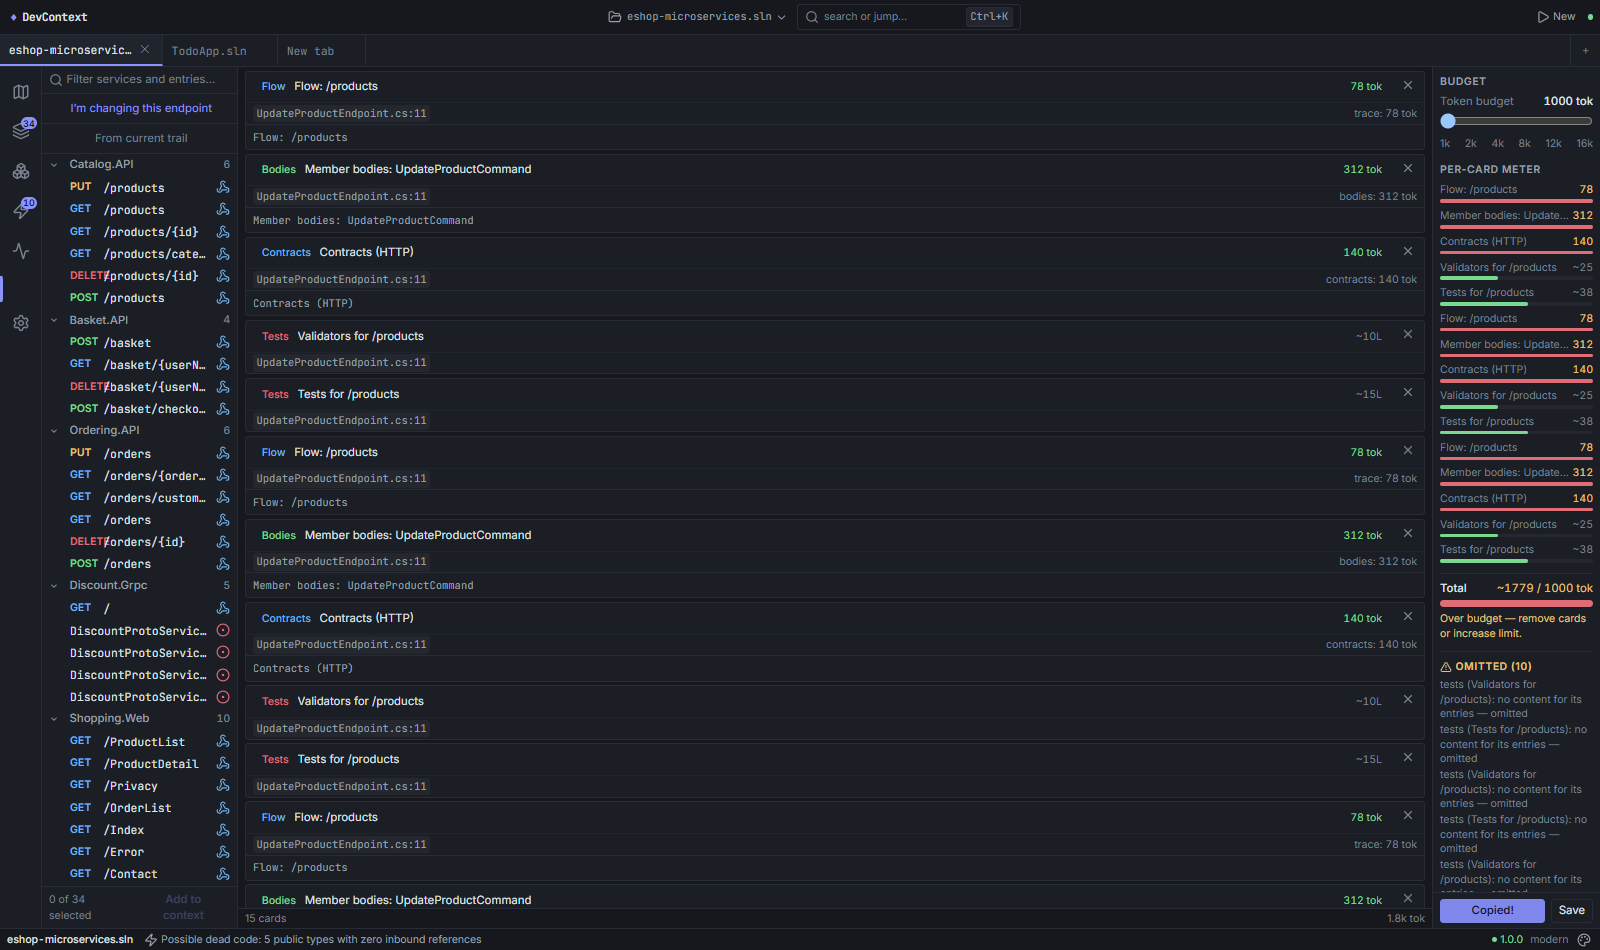
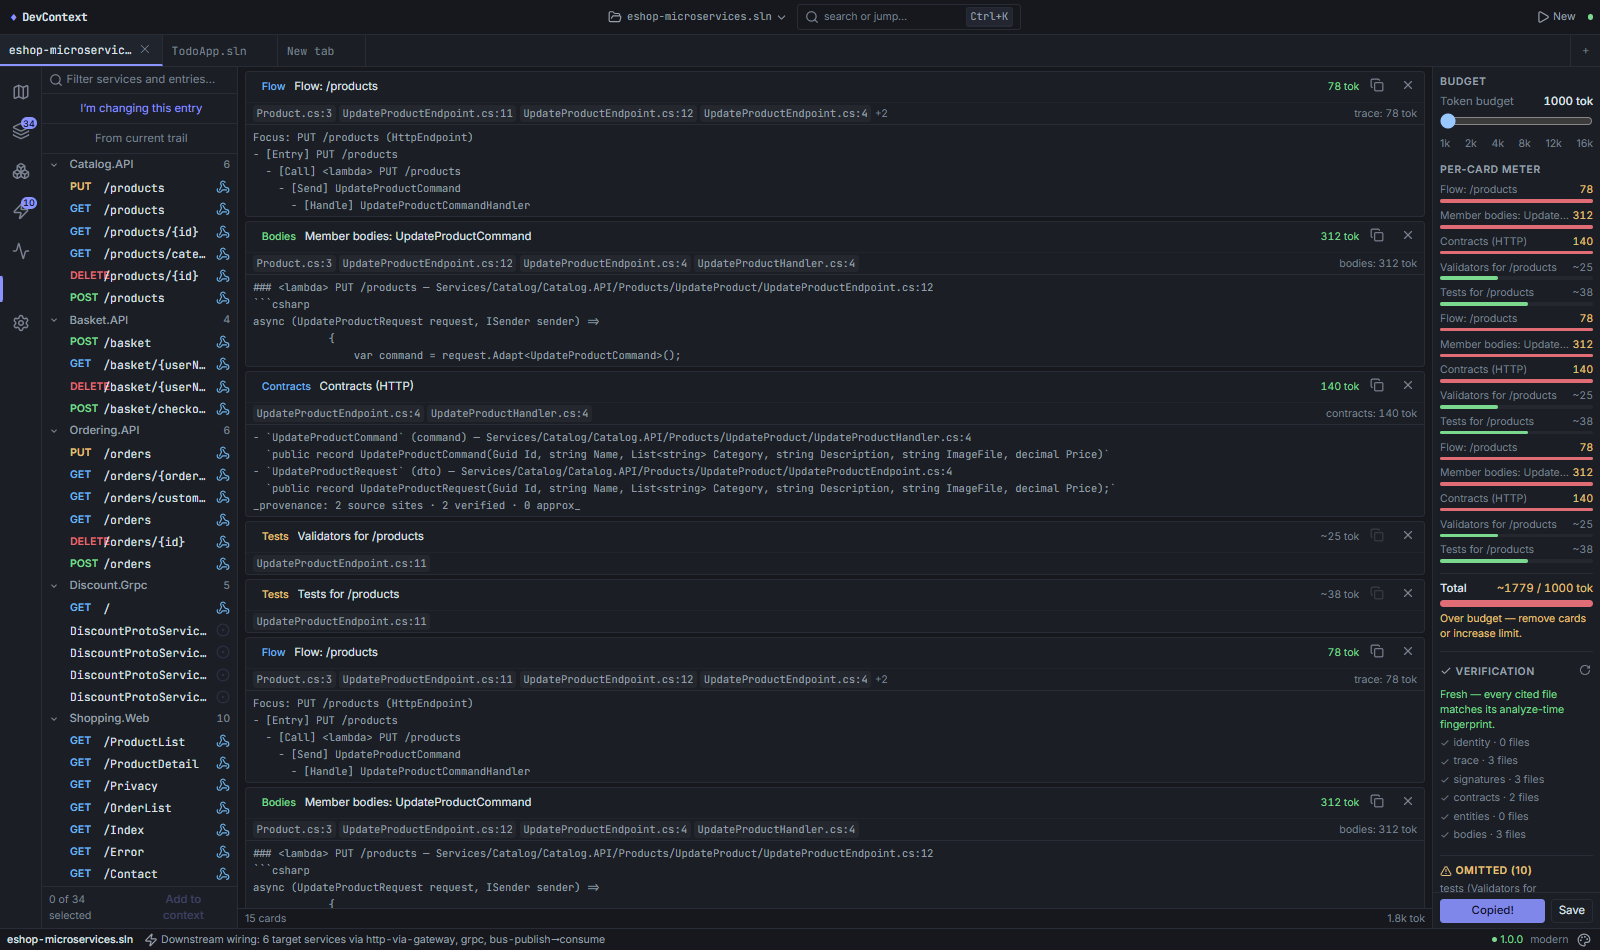
fix(t5): Build() resolves nodeId/route focus — verify_context was eternally fresh (T5.2 rider)
The live drive caught it: ContextPackBuilder.Build() handed the focus RAW
to Trace() (only BuildMulti resolved). The Studio passes card entry node
ids as the verify focus, so Trace(nodeId) returned null, BuildSections
early-returned identity-only, and the verifier fingerprinted ZERO files —
found=true, "fresh" forever while the disk drifted. Build() now resolves
nodeId/bare-route/title first (T3.1 unified addressing); every Build caller
(GetContext, VerifyContext, MCP get_context) benefits. Pinned by
Build_resolves_a_node_id_focus_like_a_title.

Drive gate 9/9 PASS incl. I-verification-stale-cycle live on disk
(fresh -> edit CheckoutBasketHandler.cs -> stale -> restore -> fresh).
Stage battery gates-t5-stage.txt GATE: PASS (eval 58P/6S/0F) + loom-guards
clean; dogfood drift row byte-identical (439/339/34).

Also: gates.ps1 gains -SkipEval (mid-stage fast form, self-labeling
verdict) per the battery-cadence directive; cadence note in the tracker.

Claude-Session: https://claude.ai/code/session_01ChfWSCiRJV2qLww4tyTkQn

diff --git a/tests/DevContext.Core.Tests/ContextPackBuilderTests.cs b/tests/DevContext.Core.Tests/ContextPackBuilderTests.cs
@@ -216,6 +216,26 @@ public sealed class ContextPackBuilderTests
     }
 
     [Fact]
+    public void Build_resolves_a_node_id_focus_like_a_title()
+    {
+        // T5.2 — the Studio's VerifyContext passes card entry NODE IDS as the focus. Build()
+        // handed the raw string to Trace(), got null, and returned identity-only sections —
+        // the verifier then checked 0 files and reported "fresh" forever while the disk
+        // drifted. A nodeId focus must resolve exactly like a title (T3.1 unified addressing).
+        var (query, snapshot) = Arrange();
+        var builder = new ContextPackBuilder(query, snapshot);
+
+        var byTitle = builder.Build("POST /orders");
+        var byNodeId = builder.Build(snapshot.Entries[0].Node.ToString());
+
+        Assert.True(byNodeId.Found);
+        Assert.Contains(byNodeId.Sections, s => s.Section == "trace");
+        Assert.Equal(
+            byTitle.Sections.Select(s => s.Section),
+            byNodeId.Sections.Select(s => s.Section));
+    }
+
+    [Fact]
     public void Multi_pack_propagates_section_omission_reasons()
     {
         // T5.1 (audit R1) — BuildMulti built the per-section omission reasons and threw them

diff --git a/src/DevContext.Core/Graph/ContextPackBuilder.cs b/src/DevContext.Core/Graph/ContextPackBuilder.cs
@@ -25,6 +25,11 @@ public sealed class ContextPackBuilder
 
     public ContextPack Build(string focus, int budgetTokens = 8000, string? intent = null)
     {
+        // T5.2 — unified addressing (T3.1 rule): a nodeId or bare route resolves like it does
+        // in BuildMulti before tracing. Without this, VerifyContext(focus=nodeId) traced null
+        // and returned identity-only sections — 0 files checked, always "fresh" while the disk
+        // drifted underneath.
+        focus = ResolveFocus(focus) ?? focus;
         var (sections, omitted) = BuildSections(focus, budgetTokens, intent);
         if (sections.Length == 0)
         {

diff --git a/TAPESTRY-START.md b/TAPESTRY-START.md
@@ -7,18 +7,18 @@ Branch scheme: `feat/tapestry-t<stage>` off `develop`. Never merge unasked.
 Dogfood: `C:\Users\shahi\source\repos\run-aspnetcore-microservices\src` · second pole: `C:\code\shamshir`.
 
 ## Handoff (overwrite this block, ≤12 lines, no history)
-last: 2026-07-16 **T5.1 + T5.6 VERIFIED on feat/tapestry-t5** (off tapestry-t4 @ bcae33d; T5.1 = 89c2797, T5.6 = cc05b46, pushed). T5.1: omitted[] end-to-end — ROOT CAUSE
-server-side: BuildMulti DISCARDED BuildSections' omission reasons, pack omitted[] was ALWAYS empty (single-card Build() reported fine); now propagated
-(focus-attributed >1 entry, deduped, cap 12) + BudgetPanel renders; card error strip + Retry (old catch mutated cards in place — zoneless never
-re-rendered); save .txt/.md. T5.6 (audit C1): schedulePack (350ms debounce, seq-guarded) on add/remove/reorder/retry/budget/intent — ALWAYS the whole
-card set (pack was latest-batch-only!); ONE buildContext path, legacy client fallback DELETED (exports = server pack or disabled; failure clears pack);
-plain strips syntax keeps content; save `${repo}-context-${date}.{md|txt}`; preset disabled @0 entries; "Add N to context" primary; config/tests specs
-server-side now. Drive gate **8/8 PASS** (was 4 expected-red): E omitted@1k · F error+retry · G copy@4k≠copy@1k w/ matching Budget headers · H
-plain≠markdown. Tauri smoke alive 20s (L6 rule). 37 vitest; gates-t5.1.txt GATE: PASS (eval 58P/6S/0F); T5.6 dotnet-delta ZERO (app-only, recorded).
-stage: **T5 2/6 (T5.1, T5.6) — pushed, NOT merged pending user review.** Evidence eval-results/2026-07-16/tapestry-t5/.
-next: T5.2 verification panel (R6 UI over T4.5 verify_context RPC) → T5.3 per-card copy + JSON export + file:line chips → T5.5 card content honesty
-→ T5.4 worker/hub presets. develop lives in C:/Code/DevContext2-ui worktree (`git -C`).
-gotcha: ng-serve watcher WEDGES after a mid-edit compile error (stale vite-error-overlay blocks clicks, watcher stops) — restart ng serve, don't trust HMR.
+last: 2026-07-16 **T5 COMPLETE — 6/6 on feat/tapestry-t5** (off tapestry-t4 @ bcae33d): T5.1 89c2797 → T5.6 cc05b46 → T5.2 fea8973(+fix) → T5.3 e1f3c3b →
+T5.5 98d7fa1 → T5.4 4150e46. Studio trust arc done: omitted[] end-to-end (BuildMulti DISCARDED the reasons — always-empty omitted[]), error+Retry, whole-set
+re-pack on every change (pack was latest-batch-only; ONE buildContext path, client fallback DELETED), verification ledger (auto-verify per re-pack, Refresh/
+Re-analyze), per-card copy + json format + own-source file:line chips (proto SectionAllocation.content=6 — sections were counts about text the client never
+got), real previews (title echo dead), kind-aware presets (hub/worker). **Two live-drive catches: Build() never ResolveFocus'd → VerifyContext(nodeId) = 0
+files checked = eternal "fresh" (fixed at Build, T3.1 addressing); GrpcService kind glyph was danger-red = fake error badge (finding 50).** Drive gate
+**9/9 PASS** incl. I-verification-stale-cycle (fresh→disk edit→stale→restore→fresh). 45 vitest · Tauri smoke · gates-t5.1.txt GATE: PASS + stage battery
+gates-t5-stage.txt (verify GATE: PASS before merge) + loom-guards after it.
+next: **T6 (Workbench & pages revamp)** — T6.0 shamshir pole of the UI audit first, then T6.1+. Known T6 seeds: icon REGISTRY blank names (eye/eye-off/
+grip-vertical/edit/history/box), chip→code-pane nav (T6.8). develop lives in C:/Code/DevContext2-ui worktree (`git -C`).
+gotchas: ng-watcher wedges on mid-edit errors (restart ng); NUL bytes from edit text break correlation invisibly (`grep` says binary — `cat -A`); dogfood has
+PRE-EXISTING local mods since 2025-12: YarpApiGateway/Program.cs EMPTY + CreateOrderHandler tweak — baselines include them, do NOT restore.
 
 ---
 
@@ -85,10 +85,10 @@ A checkpoint without a fresh artifact is not DONE (write BLOCKED with what's mis
 | # | Checkpoint | Status | Commit | Evidence |
 |---|-----------|--------|--------|----------|
 | T5.1 | R1 omitted list · R4 error state · R5 save extension | VERIFIED | 89c2797 | tapestry-t5/T5.1-EVIDENCE.md · **root cause: BuildMulti DISCARDED BuildSections' omission reasons — pack omitted[] was always empty**; now propagated (focus-attributed, deduped, cap 12) + `Multi_pack_propagates_section_omission_reasons` · R4 error strip + Retry (old catch mutated cards in place — no signal fire) · R5 .txt/.md · 4 vitest specs · ui-audit-drive E/F armed, **6/6 PASS (first all-green drive)** · gates-t5.1.txt GATE: PASS (eval 58P/6S/0F) |
-| T5.2 | Verification panel (R6 UI) | TODO | | |
-| T5.3 | R7 per-card copy · R8 JSON export · file:line provenance chips | TODO | | |
-| T5.4 | Worker/hub presets | TODO | | |
-| T5.5 | Card content honesty: real previews (no title echo) · per-card provenance · one unit · scope-error tooltips | TODO | | |
+| T5.2 | Verification panel (R6 UI) | VERIFIED | fea8973 + fix | tapestry-t5/T5.2-EVIDENCE.md · VerificationPanel in the budget rail (fresh/stale banner · per-section ✓/⚠ rows · changed files w/ line delta · HEAD drift · Refresh + Re-analyze) · auto-verify after every re-pack, merged across focuses, advisory-on-failure · **live-drive catch: Build() never ran ResolveFocus — VerifyContext(focus=nodeId) traced null → identity-only → 0 files checked → eternal "fresh"; fixed at Build() (T3.1 addressing) + `Build_resolves_a_node_id_focus_like_a_title`** · drive I-verification-stale-cycle PASS (fresh→disk edit→stale→restore→fresh, shots 16-18) · 3 specs |
+| T5.3 | R7 per-card copy · R8 JSON export · file:line provenance chips | VERIFIED | e1f3c3b | tapestry-t5/T5.3-EVIDENCE.md · proto `SectionAllocation.content=6` (sections were counts about text the client never received) + one regen · per-card copy (pack-shaped, real content) · json = third format: structured pack (cards/sections/provenance/omitted/verification/markdown) `${repo}-context-${date}.json` · chips = the card's OWN sourceLocations (tail text, full path title, click copies file:line; code-pane nav deferred to T6.8) · NUL-byte gotcha pinned |
+| T5.4 | Worker/hub presets | VERIFIED | 4150e46 | tapestry-t5/T5.4-EVIDENCE.md · "I'm changing this entry" + kind-aware `presetSeedsFor`: SignalRHub → hub flow/orchestrator bodies/consumer wiring/messages/tests · worker kinds → flow/bodies/config-read/messages/tests · endpoints unchanged · 3 specs |
+| T5.5 | Card content honesty: real previews (no title echo) · per-card provenance · one unit · scope-error tooltips | VERIFIED | 98d7fa1 | tapestry-t5/T5.5-EVIDENCE.md · previews = real section text (finding 40 title echo dead) · ~NL → ~N tok (one unit) · finding 50 was COLOR SEMANTICS: GrpcService kind glyph was danger-red (read as error badge) → accent-dim + kind [title] tooltips; bonus: `--vibe-accent-pink` never existed (di_wiring badge colorless) → accent-dim, tests → warn · per-card provenance rode T5.3 |
 | T5.6 | Studio recompute-on-change: budget/format re-pack · plain≠markdown · save name · preset/Add UX (audit C1) | VERIFIED | cc05b46 | tapestry-t5/T5.6-EVIDENCE.md · schedulePack (350ms debounce, seq-guarded) on add/remove/reorder/retry/budget/intent, ALWAYS the whole card set (pack was latest-batch-only before) · ONE buildContext path — legacy client fallback DELETED, exports = server pack or disabled (exportReady/"Packing…"), failure clears pack · plain strips syntax keeps content · save `${repo}-context-${date}.{md\|txt}` · preset disabled @0 + "Add N to context" primary · config/tests specs now server-side (T4.3) · 10 vitest specs (37P) · drive **8/8 PASS**: G copy@4k(10749ch/"Budget: 4000")≠copy@1k(7158ch/"Budget: 1000"), H plain≠markdown · Tauri smoke alive (L6 rule) · dotnet delta zero vs gates-t5.1.txt |
 
 ### T6 — Workbench & pages revamp
@@ -137,6 +137,19 @@ A checkpoint without a fresh artifact is not DONE (write BLOCKED with what's mis
 | eShop | 2026-07-15 T2.6 | 1089 | 837 | 109 | Microservices (0.91) | **T2.6 pole.** UNCHANGED vs T2.5 (1089/837/109). The one `EventWiringProjection` replaces the legacy `AddBusServiceLinks` join and emits the identical bus ServiceLink set (5 links, 8 cross-service integration events collapsing to 5 distinct service pairs), so graph structure is byte-neutral. New: `graph.EventWiring` (20 events, 13 integration, 8 cross-service, 0 orphan) surfaced in `EVENT WIRING` map section + JSON `$.eventWiring`. `gateway.downstream-wiring` unchanged (4 targets). Setting Project on consumer/handler nodes + richer ServiceLink provenance did not move counts. |
 | eShop | 2026-07-15 T2.5 | 1089 | 837 | 109 | Microservices (0.91) | **T2.5 pole.** vs T1 (1092/833): nodes **−3** (orphan duplicate member nodes merged — the global-namespace member-id fix unifies the seam origin with the entry's handler node), edges **+4** (new/connected `Sends` — property-accessed `services.Mediator.Send` on OrdersApi's draft/cancel/ship/create endpoints; "Sends only rise"), entries 109 unchanged. eShop /draft trace 2 nodes → deep (entry→send CreateOrderDraftCommand [verified]→handler→data Order). Dogfood MCP-QA checkout unchanged (no regression); eval 58P/6S/0F. |
 | dogfood | 2026-07-16 T4 | 439 | 339 | 34 | Microservices (App) | **T4 stage end.** Identical to T1.1 baseline — T4 is pack-layer + snapshot-metadata only (identity header, body fill, contracts/config/tests sections, provenance, fingerprints); graph structure untouched by design. Checkout pack: 35%→90.5% budget use @4k. shamshir pack 99.4% (live MCP captures in tapestry-t4/). |
+| dogfood | 2026-07-16 T5 | 439 | 339 | 34 | Microservices (App) | **T5 stage end.** Identical to T4 — T5 is Studio/pack-serving layer only (omitted[] propagation, section content on the wire, Build() focus resolution); graph structure untouched by design. Fresh McpQa M4 baseline in the stage battery (gates-t5-stage.txt GATE: PASS, eval 58P/6S/0F). Note: dogfood working copy carries PRE-EXISTING local mods since 2025-12-12 (YarpApiGateway/Program.cs empty + CreateOrderHandler tweak) — every baseline row in this table includes them; do not restore. |
+
+## Battery cadence (2026-07-16 — user directive; refines §1 "green before every commit")
+
+The full battery (~25–35 min) runs at **boundaries only**: stage close-out · before pushing
+dotnet-touching commits · always before merge (with loom-guards). One run validates the TIP
+and retroactively covers every commit since the last run — say so in the evidence.
+Between boundaries, tier by change: **app-only** → `pnpm check` + ui-audit-drive, record
+"dotnet delta zero vs <last GATE: PASS artifact>"; **dotnet mid-stage** → targeted
+`dotnet test tests/<affected>.Tests` + loom-guards (~90s, fine per commit), or
+`eval/gates.ps1 -SkipEval` (build+fast+McpQa+CLI, ~6 min — verdict self-labels
+"PASS (FAST … not a merge gate)"). R-T5 (one battery at a time) and R-T7 (ratchet)
+unchanged. Launch batteries DETACHED and watch the log for `GATE:`.
 
 ## Quick commands
 

diff --git a/eval-results/2026-07-16/tapestry-t5/T5.2-EVIDENCE.md b/eval-results/2026-07-16/tapestry-t5/T5.2-EVIDENCE.md
@@ -17,14 +17,33 @@
   advisory: a failed check hides the panel (never claims fresh OR stale without evidence)
   and never blocks exports.
 
+## Root cause caught by the live drive (would have shipped a lying panel)
+
+The first live run showed the panel permanently "fresh — identity · 0 files" even after
+editing a cited file on disk. `ContextPackBuilder.Build()` handed the focus string RAW to
+`Trace()` — it never ran `ResolveFocus` (only `BuildMulti` did). The Studio passes card
+entry NODE IDS as the verify focus, so `Trace(nodeId)` returned null, `BuildSections`
+early-returned identity-only, and the verifier fingerprinted **zero files**: `found=true`,
+always fresh, while the disk drifted underneath. Fixed at the source (T3.1 unified
+addressing): `Build()` resolves nodeId/bare-route/title before tracing — every `Build`
+caller (GetContext, VerifyContext, MCP get_context) benefits. Pinned:
+`Build_resolves_a_node_id_focus_like_a_title` (16/16 pack tests).
+
 ## Verification
 
-- 3 vitest specs (43 total green): auto-verify after re-pack (fresh banner, per-section rows) ·
+- 3 vitest specs (45 total green): auto-verify after re-pack (fresh banner, per-section rows) ·
   two-focus merge with one stale (warn banner + changed file + Re-analyze wired to
   `session.reAnalyze`) · failed verification is advisory (panel null, exports unaffected).
-- Drive assertion `I-verification-stale-cycle` armed: adds the checkout flow via omnibox,
-  captures fresh, appends a drift probe to `CheckoutBasketHandler.cs` on disk → [Refresh] →
-  stale banner + changed file rendered, restores the file → [Refresh] → fresh again
-  (screenshots 16/17/18). Live run rides the stage close-out drive (this session).
-- `pnpm lint` PASS · 40/40 → 43/43 vitest · dotnet delta: zero (client-only; the RPC and
-  `ContextPackVerifierTests` landed in T4.5).
+- **Drive `I-verification-stale-cycle` PASS live (9/9 drive)**: checkout flow added via
+  omnibox → fresh → drift probe appended to `CheckoutBasketHandler.cs` on disk → [Refresh] →
+  stale banner + changed file rendered → file restored → [Refresh] → fresh again
+  (screenshots 16/17/18; handler verified restored, dogfood `git status` clean of it).
+- `pnpm lint`/`pnpm check` PASS · 45/45 vitest · dotnet delta: ContextPackBuilder focus
+  resolution + T5.3's proto field — covered by the stage-end battery (gates-t5-stage.txt).
+
+## Noted (pre-existing, NOT touched)
+
+The dogfood working copy has TWO local modifications dated 2025-12-12 (7 months before
+Tapestry): `YarpApiGateway/Program.cs` is EMPTY (0 bytes) and `CreateOrderHandler.cs` has a
+BOM/static tweak. Every Tapestry baseline was measured against this state — restoring them
+would shift the truth counts, so they stay; surfaced to the user instead.

diff --git a/eval-results/2026-07-16/mcp-qa.md b/eval-results/2026-07-16/mcp-qa.md
@@ -10,7 +10,7 @@
 |---|------|-------|--------|----------|--------|
 | q1-overview | YES | 1 | 224 | What is this repo? (one-call repo brief) | overview 224 tok, archetype=true flows=true counts=true services=true |
 | q2-checkout-flow | YES | 1 | 1467 | How does checkout work? | trace found: 46 steps, cross-service, 1467 tok |
-| q3-discount-callers | YES | 2 | 697 | Who calls the Discount service? | 10 Discount matches, usages=true |
+| q3-discount-callers | YES | 2 | 698 | Who calls the Discount service? | 10 Discount matches, usages=true |
 | q4-impact-of-handler | YES | 3 | 434 | What breaks if I change CheckoutBasketCommandHandler? | impact up=5 down=0 total=5 |
 | q5-ambiguous-product | YES | 1 | 592 | What is Product? (disambiguation check) | resolve returned 10 candidates, ambiguous=true, hint=yes |
 | q6-config-lookup | YES | 1 | 297 | What config keys are used? | config returned 4 keys |

diff --git a/eval-results/2026-07-16/ui/ui-gate.md b/eval-results/2026-07-16/ui/ui-gate.md
@@ -20,6 +20,7 @@ green-wash. Run with `--gate` (armed in L6) to enforce.
 | F-pack-error-retry | failed pack RPC shows card error; retry recovers | PASS | R4 | T5.1 | errorShown=true clearedAfterRetry=true |
 | G-repack-on-budget | budget change re-packs: copy@4k != copy@1k, headers match slider | PASS | C1 | T5.6 | 4k=10749ch(hdr4k=true) 1k=7158ch(hdr1k=true) differ=true |
 | H-plain-not-markdown | plain copy differs from markdown copy (bytes) | PASS | C1 | T5.6 | plain=6891ch differ=true noHeadings=true |
+| I-verification-stale-cycle | verification ledger: fresh -> stale on disk edit -> fresh on restore | PASS | R6 | T5.2 | fresh=true staleAfterEdit=true freshAfterRestore=true |
 
 ## Red items enumerated (owner stage)
 

diff --git a/eval-results/2026-07-16/ui/notes.md b/eval-results/2026-07-16/ui/notes.md
@@ -13,3 +13,6 @@ errors cleared after retry: true
 copy @4k: 10749 chars
 copy @1k: 7158 chars
 copy plain@1k: 6891 chars
+verification before edit: {"panel":true,"fresh":true,"stale":false}
+verification after edit: {"panel":true,"fresh":false,"stale":true}
+verification after restore: {"panel":true,"fresh":true,"stale":false}
